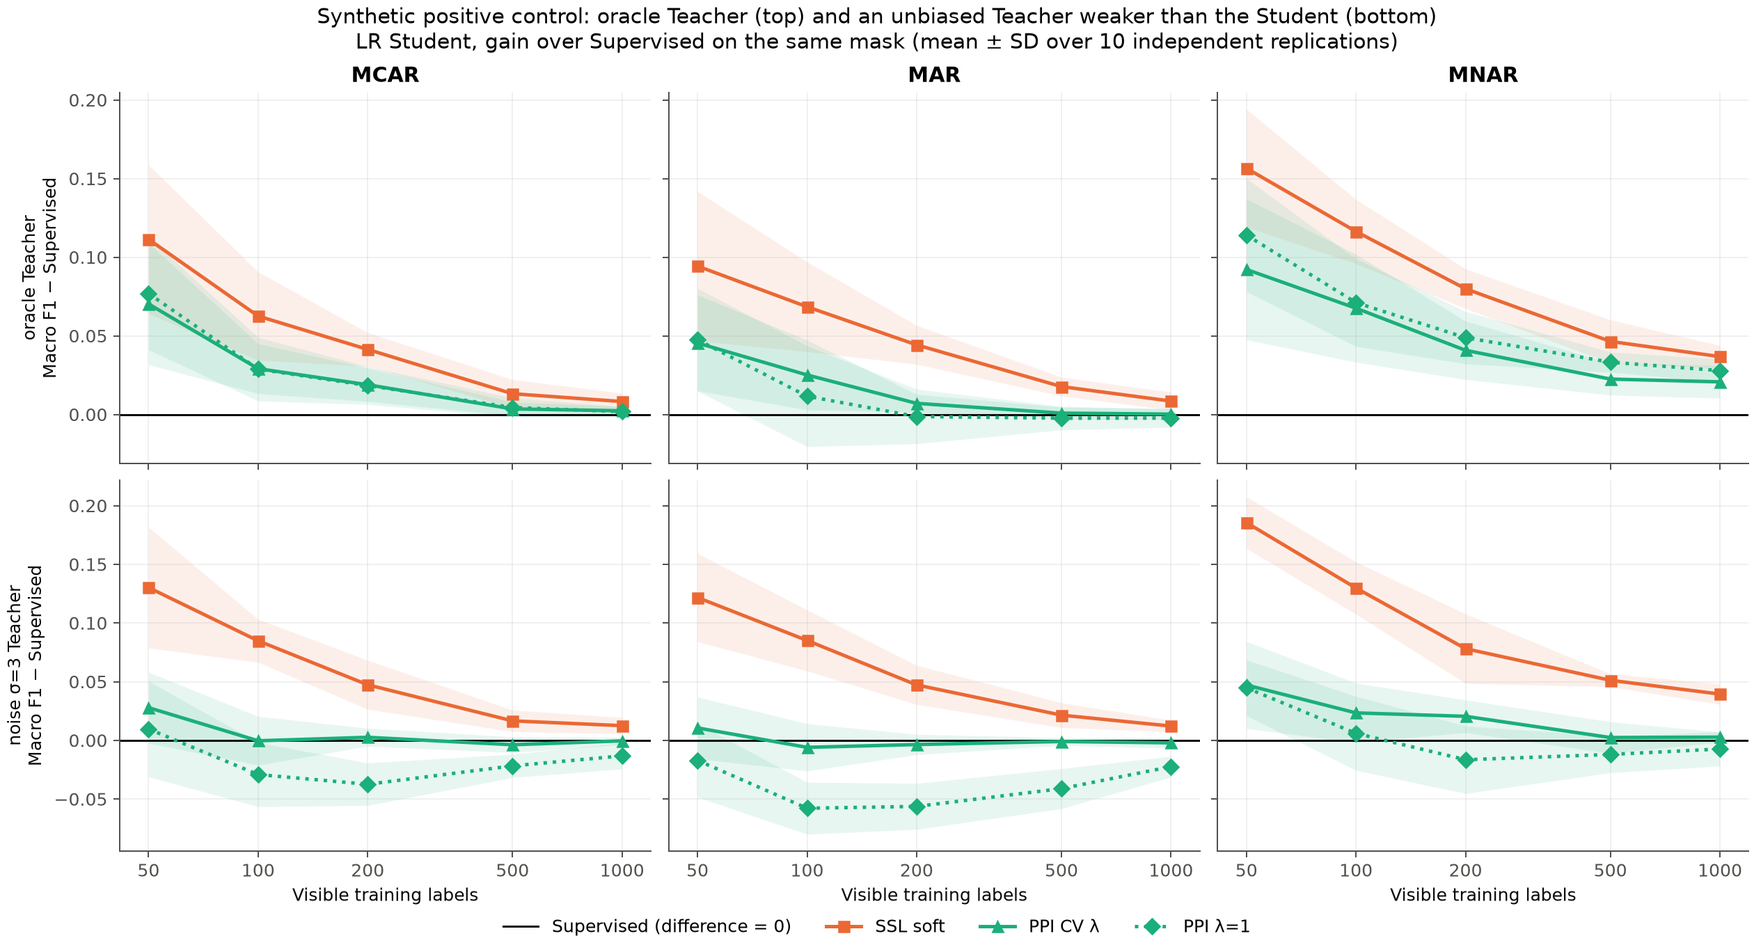
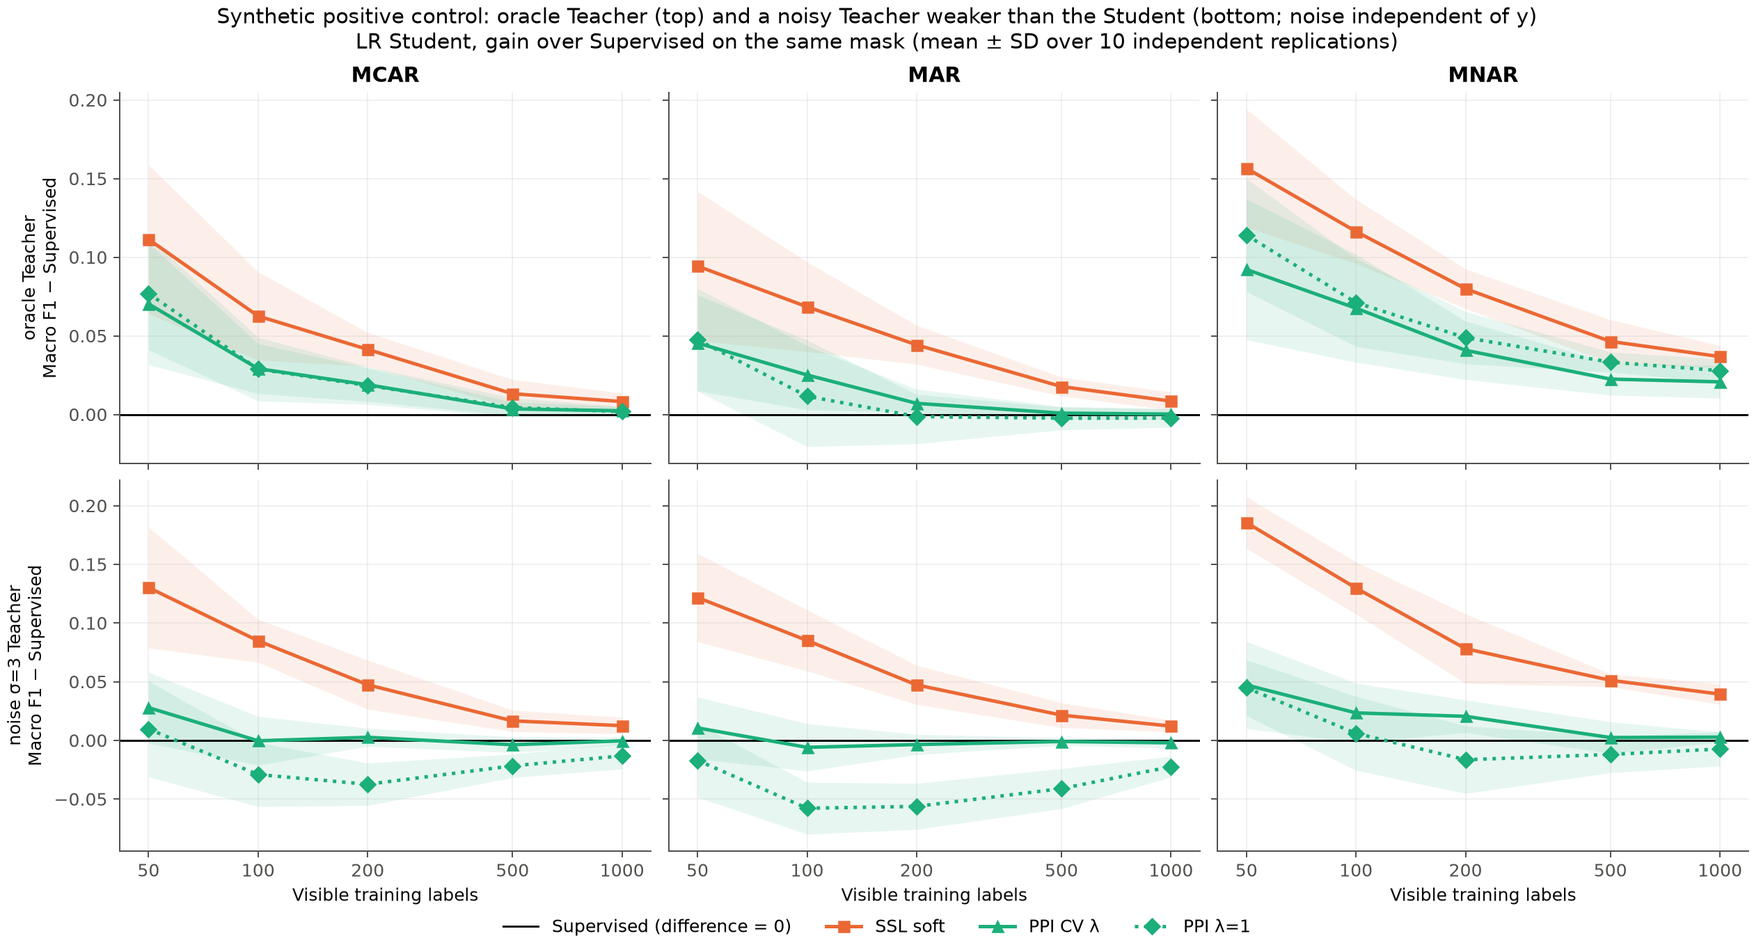
update

Changed region(s): [[0.1238, 0.0, 0.8667, 0.0307]]

diff --git a/src/core/figures.py b/src/core/figures.py
@@ -363,8 +363,9 @@ def improved_outputs():
 # Step 10: LR Main Line — Paired Uncertainty, λ Sources, Per-Class F1 and Ablations as Questions (Tables Only)
 
 KEY = ['mechanism', 'budget', 'seed']
-CAVEAT = ('All 75 masks share one train/validation split and one validation set; seeds vary only the mask (and the '
-          'CV folds). Intervals describe mask-to-mask variability on this development set, not generalization.')
+CAVEAT = ('All 75 masks share one train/validation split and one validation set, and masks with the same seed are nested '
+          'across budgets. SE and intervals therefore resample whole seeds (5 clusters): coarse, descriptive, and about '
+          'mask-to-mask variability on this development set only, not generalization.')
 
 
 def main_lr():
@@ -376,20 +377,23 @@ def main_lr():
 
 # Step 10a: LR Main Line — Paired Differences With SE and a Stratified Paired Bootstrap Over Masks
 
-def stratified_bootstrap(d, draws=4000, seed=0):
-    """Resample masks with replacement within each (mechanism, budget) cell, keeping the design balanced."""
+def seed_cluster_bootstrap(d, draws=4000, seed=0):
+    """Resample whole seeds (clusters) with replacement. Masks with the same seed are nested across budgets and share
+    CV folds, so they are not independent; resampling masks one by one would understate the uncertainty."""
     rng = np.random.default_rng(seed)
-    cells = [g.to_numpy() for _, g in d.groupby(level=['mechanism', 'budget'])]
-    total = sum(len(c) for c in cells)
-    means = np.zeros(draws)
-    for c in cells:
-        means += c[rng.integers(0, len(c), (draws, len(c)))].sum(axis=1)
-    return np.percentile(means/total, [2.5, 97.5])
+    groups = d.groupby(level='seed')
+    sums, counts = groups.sum().to_numpy(), groups.size().to_numpy()
+    picks = rng.integers(0, len(sums), (draws, len(sums)))
+    return np.percentile(sums[picks].sum(axis=1)/counts[picks].sum(axis=1), [2.5, 97.5])
 
 
 def describe(d):
-    lo, hi = stratified_bootstrap(d)
-    return {'n_masks': len(d), 'mean': d.mean(), 'se': d.std(ddof=1)/np.sqrt(len(d)), 'boot_low': lo, 'boot_high': hi,
+    """Mean, seed-cluster SE and seed-cluster bootstrap interval (only 5 seeds: coarse and descriptive)."""
+    lo, hi = seed_cluster_bootstrap(d)
+    seed_means = d.groupby(level='seed').mean()
+    return {'n_masks': len(d), 'n_seeds': len(seed_means), 'mean': d.mean(),
+            'cluster_se': seed_means.std(ddof=1)/np.sqrt(len(seed_means)), 'boot_low': lo, 'boot_high': hi,
+            'seeds_positive': int((seed_means > 1e-12).sum()),
             'better': int((d > 1e-12).sum()), 'worse': int((d < -1e-12).sum()), 'equal': int((d.abs() <= 1e-12).sum())}
 
 
@@ -540,7 +544,7 @@ def lr_mainline_outputs():
     print(CAVEAT)
     table = outputs['lr_paired_uncertainty.csv']
     for _, r in table.loc[(table.scope == 'all 75 masks') & (table['class'] == 'all classes')].iterrows():
-        print(f"  {r.contrast}: {r['mean']:+.4f} ± {r.se:.4f} SE, 95% bootstrap [{r.boot_low:+.4f}, {r.boot_high:+.4f}] "
+        print(f"  {r.contrast}: {r['mean']:+.4f} ± {r.cluster_se:.4f} seed-cluster SE, 95% seed-cluster bootstrap [{r.boot_low:+.4f}, {r.boot_high:+.4f}] "
               f"({r.better} better / {r.worse} worse / {r.equal} equal)")
     print('  Robustness vs improvement: '+'; '.join(f'{k}: {v:.4f}' if isinstance(v, float) else f'{k}: {v}' for k, v in harms.items()))
     print('  λ sources by budget:\n'+counts.to_string())
@@ -557,7 +561,8 @@ def positive_control_outputs():
         return
     rows, declaration = load_pc()
     styles = {'SSL soft': (ORANGE, 's', '-'), 'PPI CV λ': (AQUA, '^', '-'), 'PPI λ=1': (AQUA, 'D', ':')}
-    # Oracle = the objective works; σ=3 = a Teacher worse than the Student but unbiased. The other conditions
+    # Oracle = gains are possible here; σ=3 = a Teacher worse than the Student whose noise is independent of y and x
+    # (softmax of noisy logits is NOT an unbiased probability). The other conditions
     # (σ=1, uninformative, subgroup-biased) are in positive_control_checks.csv and the console summary.
     pair = ['oracle', 'noise σ=3']
     fig, axes = six_panel([f'{t} Teacher\nMacro F1 − Supervised' for t in pair])
@@ -567,7 +572,7 @@ def positive_control_outputs():
             zero_line(ax)
             for method in PC_METHODS:
                 band(ax, paired(rows, teacher, f'{method} − Supervised').loc[mechanism], method, *styles[method])
-    finish(fig, axes, 'Synthetic positive control: oracle Teacher (top) and an unbiased Teacher weaker than the Student (bottom)'
+    finish(fig, axes, 'Synthetic positive control: oracle Teacher (top) and a noisy Teacher weaker than the Student (bottom; noise independent of y)'
            f'\nLR Student, gain over Supervised on the same mask (mean ± SD over {len(declaration["grid"]["seeds"])} '
            'independent replications)', 'positive_control.png')
     table = checks(rows, declaration)

diff --git a/tests/test_protocol.py b/tests/test_protocol.py
@@ -565,6 +565,25 @@ class ImprovedTests(unittest.TestCase):
         self.assertEqual(len(rows), 1+len(improved.STUDENTS)*len(improved.METHODS)*2)
         self.assertTrue(all(0 <= r['macro_f1'] <= 1 for r in rows))
 
+    def test_final_ppi_fit_that_is_not_estimable_backs_off_instead_of_crashing(self):
+        config = replace(improved.CONFIG, cv_folds=3, teacher_iterations=5, tree_iterations=5)
+        select, fit = improved.select_and_calibrate, improved.fit_methods
+        def force_lambda(*args, **kwargs):  # Pretend CV chose λ = 0.75 ...
+            chosen, bias, cv = select(*args, **kwargs)
+            return {**chosen, 'PPI CV λ': .75}, bias, cv
+        def not_estimable(XL, y, XU, qL, qU, wl, wu, P_oof, settings, ssl_weights=(.1, .5), lambdas=(.25, .5, .75, 1.)):
+            fits = fit(XL, y, XU, qL, qU, wl, wu, P_oof, settings, ssl_weights, lambdas)
+            if tuple(lambdas) == (.75,):  # ... and that the final full-data fit at 0.75 is not estimable.
+                fits[('PPI CV λ', .75)] = None
+            return fits
+        with patch.object(improved, 'select_and_calibrate', side_effect=force_lambda), \
+             patch.object(improved, 'fit_methods', side_effect=not_estimable):
+            rows, audit = improved.run_improved_case(100, 'MCAR', 42, config)
+        self.assertEqual(len(rows), 1+len(improved.STUDENTS)*len(improved.METHODS)*2)
+        for student in improved.STUDENTS:
+            self.assertEqual(audit['ppi_cv_backoff'][student]['requested'], .75)
+            self.assertLess(audit['ppi_cv_backoff'][student]['effective'], .75)
+
 
 class VersionProtectionTests(unittest.TestCase):
     def test_fingerprint_differences_name_what_changed(self):
@@ -590,6 +609,9 @@ class VersionProtectionTests(unittest.TestCase):
     def test_draft_test_protocol_refuses_to_run(self):
         import final_test
         self.assertEqual(final_test.FROZEN['status'], 'draft')
+        # The draft must match the README proposal: CatBoost → LR is the primary method, with no pooled Teacher rule.
+        self.assertEqual(final_test.VARIANTS[0], ('CatBoost', 'LR'))
+        self.assertIn('Secondary only', final_test.FROZEN['teacher_rule'])
         with patch.object(final_test, 'connect', side_effect=AssertionError('Test database touched')), \
              self.assertRaises(RuntimeError):
             final_test.run()
@@ -680,11 +702,17 @@ class PositiveControlTests(unittest.TestCase):
 
 
 class LRMainlineTests(unittest.TestCase):
-    def test_stratified_bootstrap_and_describe(self):
+    def test_seed_cluster_bootstrap_and_describe(self):
         import figures as lr_mainline
         index = pd.MultiIndex.from_product([['MCAR', 'MAR'], [50, 100], range(5)], names=lr_mainline.KEY)
         constant = pd.Series(.01, index=index)
-        np.testing.assert_allclose(lr_mainline.stratified_bootstrap(constant), [.01, .01])
+        np.testing.assert_allclose(lr_mainline.seed_cluster_bootstrap(constant), [.01, .01])
+        # One seed far from the others must widen the interval: whole seeds are resampled, not single masks.
+        shifted = constant.copy()
+        shifted[shifted.index.get_level_values('seed') == 0] = .05
+        low, high = lr_mainline.seed_cluster_bootstrap(shifted)
+        self.assertAlmostEqual(low, .01)
+        self.assertGreater(high, .02)
         summary = lr_mainline.describe(pd.Series(np.r_[np.ones(10), -np.ones(5), np.zeros(5)], index=index))
         self.assertEqual((summary['better'], summary['worse'], summary['equal']), (10, 5, 5))
 

diff --git a/src/core/final_test.py b/src/core/final_test.py
@@ -17,18 +17,25 @@ from teacher_study import STUDY_DB, variant_name
 FINAL_DB = RESULTS_DIR / 'final_test.sqlite'
 # Written to the database before any Test score exists; the run refuses to start if it ever differs.
 FROZEN = {
-    'status': 'draft',  # Set to 'final' only after the main experiment is settled; run() refuses a draft.
+    'status': 'draft',  # Set to 'final' (with a date) only when the author freezes the protocol; run() refuses a draft.
     'frozen_on': None,
-    'final_method': 'LR Student with a cross-fitted LR Teacher; labeled-only preprocessing; '
-                    'SSL weight and PPI λ chosen by training CV (main-study grids)',
-    'teacher_rule': 'Teacher chosen by mean training-only OOF Macro F1 pooled over all 75 simulated masks '
-                    '(LR 0.490 > XGBoost 0.487 > CatBoost 0.469). This is a protocol-level choice using every mask, '
-                    'not a rule a single dataset with its own n labels could apply; validation not used',
-    'variants': ['LR→LR (final)', 'CatBoost→LR (original design)', 'XGBoost→XGBoost', 'CatBoost→XGBoost (original design)'],
+    'final_method': 'Primary (the proposal design): LR Student with a cross-fitted CatBoost Teacher; labeled-only '
+                    'preprocessing; SSL weight and PPI λ chosen by training CV on the visible labels (main-study grids); '
+                    'argmax decisions. No Teacher selection, so every mask runs it within its own label budget',
+    'primary_claims': 'Pooled over 75 masks, mean with a seed-cluster interval (5 seeds; descriptive): "improvement" only if '
+                      'PPI − Supervised stays above 0, "robustness" only if PPI − SSL soft stays above 0; both reported '
+                      'whatever the outcome',
+    'teacher_rule': 'Secondary only: per mask, keep the CatBoost or LR Teacher whose selected PPI setting has the higher '
+                    'training-CV Macro F1 on that mask\'s visible labels (teacher_study.selected_cv_score; ties and the '
+                    'no-CV small-class fallback keep CatBoost). Replaces the earlier draft rule that pooled OOF scores '
+                    'over all 75 masks, which no single dataset could apply',
+    'variants': ['CatBoost→LR (primary)', 'LR→LR (for the secondary Teacher rule)', 'CatBoost→XGBoost (sensitivity)'],
+    'not_on_test': 'improved_v2, the threshold rule, the synthetic checks and the TabPFN pilot',
     'references': 'Fully labeled LR and XGBoost',
+    'disclosure': 'validation was used as a development set; the protocol was revised after viewing it',
     'models': 'identical to the validation runs (fits never see the evaluation split); only the scored split changes',
 }
-VARIANTS = [('LR', 'LR'), ('CatBoost', 'LR'), ('XGBoost', 'XGBoost'), ('CatBoost', 'XGBoost')]
+VARIANTS = [('CatBoost', 'LR'), ('LR', 'LR'), ('CatBoost', 'XGBoost')]
 
 
 def variant_config(teacher, student):

diff --git a/src/core/ssl_core.py b/src/core/ssl_core.py
@@ -144,6 +144,9 @@ def teacher_probabilities(model, table, classes):
     return probability
 
 
+TABPFN_CHECKPOINT = 'tabpfn-v3.5-20260909.safetensors'  # TabPFN-3.5, pretrained on synthetic tasks only
+
+
 def tabpfn_teacher(X, y, seed=42):
     """Pretrained TabPFN-3.5 (synthetic-only pretraining) with this fold's visible labels as its context.
     Categories are coded from the fold's own rows; TabPFN takes no sample weights, so it is unweighted (MCAR only)."""
@@ -154,6 +157,8 @@ def tabpfn_teacher(X, y, seed=42):
     import torch
     from sklearn.preprocessing import OrdinalEncoder
     from tabpfn import TabPFNClassifier
+    from tabpfn.constants import ModelVersion
+    from tabpfn.model_loading import prepend_cache_path
     from model_utils import NUMERIC_FEATURES
     coder = OrdinalEncoder(handle_unknown='use_encoded_value', unknown_value=np.nan, encoded_missing_value=np.nan)
     coder.fit(X[CATEGORICAL_FEATURES].astype(object).fillna('Unknown'))
@@ -163,8 +168,11 @@ def tabpfn_teacher(X, y, seed=42):
     classes = np.unique(y)
     if len(classes) == 1:
         return lambda table: teacher_probabilities(None, table, classes)
-    model = TabPFNClassifier(device='mps' if torch.backends.mps.is_available() else 'cpu', random_state=seed,
-                             categorical_features_indices=list(range(len(NUMERIC_FEATURES), X.shape[1])))
+    # Pinned checkpoint, not the package default, so a tabpfn upgrade cannot silently swap the model.
+    model = TabPFNClassifier.create_default_for_version(
+        ModelVersion.V3_5, model_path=prepend_cache_path(TABPFN_CHECKPOINT), random_state=seed,
+        device='mps' if torch.backends.mps.is_available() else 'cpu',
+        categorical_features_indices=list(range(len(NUMERIC_FEATURES), X.shape[1])))
     model.fit(encode(X), y)
     def predict(table):
         probability = np.zeros((len(table), K))

diff --git a/src/core/improved.py b/src/core/improved.py
@@ -231,6 +231,19 @@ def run_improved_case(n_labeled, mechanism, seed, config=CONFIG):
             final = {'Supervised': fits[('Supervised', 0.)],
                      'SSL soft': fits[('SSL soft', chosen['SSL soft'])] if ssl else fits[('Supervised', 0.)],
                      'PPI CV λ': fits[('PPI CV λ', chosen['PPI CV λ'])] if lam else fits[('Supervised', 0.)]}
+            if final['PPI CV λ'] is None:  # CV choice not estimable on all visible labels: back off as the main study does.
+                for smaller in sorted((v for v in (.25, .5, .75, 1.) if v < chosen['PPI CV λ']), reverse=True):
+                    try:
+                        final['PPI CV λ'] = fit_student(XL, data.y, XU, qL, qU, 'ppi', smaller, wl=data.labeled_weights,
+                                                        wu=data.unlabeled_weights, initial=final['Supervised'],
+                                                        config=student_settings(student, config))[0]
+                        audit.setdefault('ppi_cv_backoff', {})[student] = {'requested': chosen['PPI CV λ'], 'effective': smaller}
+                        break
+                    except NonEstimableCandidate:
+                        continue
+                else:
+                    final['PPI CV λ'] = final['Supervised']
+                    audit.setdefault('ppi_cv_backoff', {})[student] = {'requested': chosen['PPI CV λ'], 'effective': 0.}
             heuristic = [(value, w) for (m, value), w in fits.items() if m == 'PPI heuristic λ'][0]
             final['PPI heuristic λ'] = heuristic[1]
             base = probabilities(XV, final['Supervised'])

diff --git a/README.md b/README.md
@@ -57,29 +57,35 @@ All figures are 2×3 grids: columns MCAR / MAR / MNAR, mean ± SD over masks. Co
 
 ## Main result (LR Student, CatBoost Teacher, 75 masks, development set)
 
-| Contrast | Mean ± SE | 95% paired bootstrap |
-|---|---|---|
-| PPI − Supervised (**improvement**) | +0.0018 ± 0.0011 | [−0.0000, +0.0038] |
-| PPI − SSL soft (**robustness**) | +0.0070 ± 0.0020 | [+0.0043, +0.0101] |
-| SSL soft − Supervised | −0.0052 ± 0.0014 | [−0.0074, −0.0033] |
+| Contrast | Mean | Seeds with a positive mean | Masks better / worse / equal |
+|---|---|---|---|
+| PPI − Supervised (**improvement**) | +0.0018 | 5 / 5 (per-seed +0.0009 … +0.0027) | 33 / 19 / 23 |
+| PPI − SSL soft (**robustness**) | +0.0070 | 5 / 5 | 43 / 15 / 17 |
+| SSL soft − Supervised | −0.0052 | 0 / 5 | 7 / 32 / 36 |
 
-- **PPI avoids SSL's harm but barely beats Supervised.**
-  - SSL is worse than Supervised on 32 masks; on those masks PPI averages +0.0049.
-  - PPI's gain sits mostly in the rarest class, *minor* (+0.022 at ≤200 labels). It is negative under MAR (−0.002).
-- **λ = 0 on 23 masks.** 17 were chosen by CV; 6 were forced because a class had fewer than 2 labels.
-- **The masks share one split,** so the intervals are descriptive.
-- **Ablations** (PPI − Supervised):
-  - LR Teacher: +0.0026. The Teacher's quality also changes, so this is not a clean test of the Teacher's architecture.
-  - λ fixed at 1: +0.0028, with a larger spread; clearly worse under MAR at 500–1,000 labels.
+**How to read the uncertainty.**
+- Masks with the same seed are nested across budgets, so the SE and intervals (`lr_paired_uncertainty.csv`) resample whole seeds.
+- With only 5 seeds, and with all masks sharing one split and one validation set, these numbers describe consistency across masks. They do **not** support a claim of a significant improvement.
+- The averages themselves are valid.
+
+**Findings.**
+- PPI avoids most of SSL's harm. SSL is worse than Supervised on 32 masks, and on those masks PPI averages +0.0049.
+- Its gain over Supervised is small and depends on the setting:
+  - mostly in the rarest class, *minor* (+0.022 at ≤200 labels);
+  - negative under MAR (−0.002).
+- λ = 0 on 23 masks: 17 chosen by CV, and 6 forced because a class had fewer than 2 labels.
+- **Ablations** (PPI − Supervised; `lr_ablation_questions.csv`):
+  - LR Teacher: +0.0026. The Teacher's quality also changes.
+  - λ fixed at 1: +0.0028, with a larger spread; worse under MAR at 500–1,000 labels.
   - Label-free preprocessing: no effect.
   - Teacher chosen per mask by CV: +0.0016.
-- **Both learned Teachers are weaker than the Student they teach**: CatBoost 0.477 and LR 0.499 vs Supervised 0.514.
+- The learned Teachers are weaker than the Student they teach: CatBoost 0.477 and LR 0.499 vs Supervised 0.514.
 
 ## Synthetic checks (pre-declared before running)
 
 - **Positive control.** A known posterior, with difficulty matched to the real data. 9/11 expectations were confirmed.
-  - An oracle Teacher gives PPI +0.045 to +0.070 at 50 labels, and the gain shrinks with more labels. **The implementation and objective work.**
-  - A Teacher that is weak but unbiased (σ = 3; Macro F1 0.42, below the Student) still lets SSL gain a lot, while PPI stays conservative. So what matters is whether the Teacher's errors are *systematic*, not its per-row accuracy. Real-data SSL harm points to systematic errors.
+  - An oracle Teacher gives PPI +0.045 to +0.070 at 50 labels, and the gain shrinks with more labels. This shows the implementation **can produce the expected gain in this synthetic setting**. It is not a proof that the implementation is fully correct.
+  - A noisy Teacher (σ = 3; Macro F1 0.42, below the Student) still lets SSL gain a lot, while PPI stays conservative. Its logit noise is independent of y and x. That does not make its probabilities unbiased: softmax distorts zero-mean noise. So per-row Teacher accuracy alone does not predict whether SSL helps or hurts. Whether the real Teacher's errors are systematic is a hypothesis, not established.
   - Not confirmed:
     - E8: CV λ costs −0.005 with an uninformative Teacher, because CV is noisy with few labels.
     - E10: no clear PPI > SSL inside the subgroup where the Teacher is biased.
@@ -93,7 +99,7 @@ All figures are 2×3 grids: columns MCAR / MAR / MNAR, mean ± SD over masks. Co
 **Question.** Is the small PPI gain caused by a Teacher that learns from the same few labels?
 
 **Setup.**
-- The Teacher is TabPFN-3.5: pretrained only on synthetic data, research license, run on an Apple GPU.
+- The Teacher is TabPFN-3.5, with the checkpoint pinned to `tabpfn-v3.5-20260909.safetensors` and `tabpfn==9.2.0`. It was pretrained only on synthetic data, uses a research license, and runs on an Apple GPU.
 - It uses the visible labels as its in-context examples, and is cross-fitted and nested in CV exactly like CatBoost.
 - Everything else matches the main study. The Supervised fits reproduce the main study exactly.
 
@@ -108,7 +114,7 @@ All figures are 2×3 grids: columns MCAR / MAR / MNAR, mean ± SD over masks. Co
 
 **Reading.**
 - TabPFN is a much better Teacher, but **the LR Student does not inherit it**: PPI gains no more than with CatBoost, and SSL still hurts (slightly less).
-- At 500 labels, TabPFN alone beats every LR Student. The bottleneck is the linear Student, not only the Teacher.
+- At 500 labels, TabPFN alone beats every LR Student. **Why the Student does not inherit the Teacher's advantage is not isolated.** Candidates are LR capacity, regularization (C = 1), the 0.8 confidence filter and noisy λ selection.
 - With 5 masks per budget, this is descriptive.
 - One smoke case (MCAR/100/42) was viewed before the run; it reproduced exactly.
 
@@ -123,14 +129,18 @@ Changes made together:
 
 **Results:** LR PPI (heuristic λ) − Supervised = +0.0049 at argmax, but the advantage disappears under the threshold rule, which itself lifts Supervised by +0.0085.
 
-**Status:** descriptive only. Earlier versions v1 and v1.1 were aborted (not strictly out-of-fold), and their interim MCAR 50–100 numbers had been viewed.
+**Status:** descriptive only.
+- Because so much changed at once, only methods *within* improved_v2 can be compared. No single change can be credited with a gain.
+- For the leaf-refit Student, the heuristic λ uses out-of-fold probabilities, but its gradient features come from trees fitted on all visible labels. It is therefore not strictly out-of-fold, and not PPI++.
+- Earlier versions v1 and v1.1 were aborted (not strictly out-of-fold), and their interim MCAR 50–100 numbers had been viewed.
+- A missing back-off for a non-estimable final PPI fit was added later; none of the 225 stored cases needed it.
 
 ## Proposed Test protocol (not executed)
 
 1. **Primary:** the proposal's design (CatBoost Teacher → LR, CV λ). It needs no Teacher selection, so each mask can run it within its own label budget.
-2. **Claims:** "improvement" only if the bootstrap interval of PPI − Supervised excludes 0; "robustness" only if PPI − SSL excludes 0. Both are reported regardless.
+2. **Claims:** "improvement" only if the seed-cluster interval of PPI − Supervised stays above 0; "robustness" only if PPI − SSL stays above 0. Both are reported regardless, and are descriptive (5 seeds, one split).
 3. **Secondary:** a per-mask Teacher choice (CatBoost vs LR) by that mask's own training CV. XGBoost is a sensitivity analysis only. improved_v2, the synthetic studies and TabPFN are not run on Test.
-4. **Freezing:** write these rules into `FROZEN` in `src/core/final_test.py` (`status = 'final'`, with the date), then run `07_final_test.py` once.
+4. **Freezing:** these rules are already in the draft `FROZEN`/`VARIANTS` in `src/core/final_test.py` (CatBoost→LR, LR→LR, CatBoost→XGBoost), which stays `draft` and refuses to run. To freeze, set `status = 'final'` with the date, then run `07_final_test.py` once.
 
 ## Reproducibility
 
@@ -140,3 +150,9 @@ Changes made together:
 - Stored results were checked to reproduce **bit-for-bit** with the current code (selected full replays plus the A1 replay of all Teachers).
 - `archive/source_before_cleanup.zip` holds the source that produced `experiments.sqlite`.
 - `eda.ipynb` draws the proposal figures in `proposal/`.
+
+## What the evidence supports
+
+- On LR, PPI gives a **small, setting-dependent gain**. It is often **more stable than plain SSL**, but it does **not consistently beat Supervised**.
+- TabPFN raised the Teacher's scores in part, but did not consistently improve the PPI Student.
+- **Reference, not ceiling:** fully labeled scores (LR 0.637) are references for the current model settings, not upper limits.
